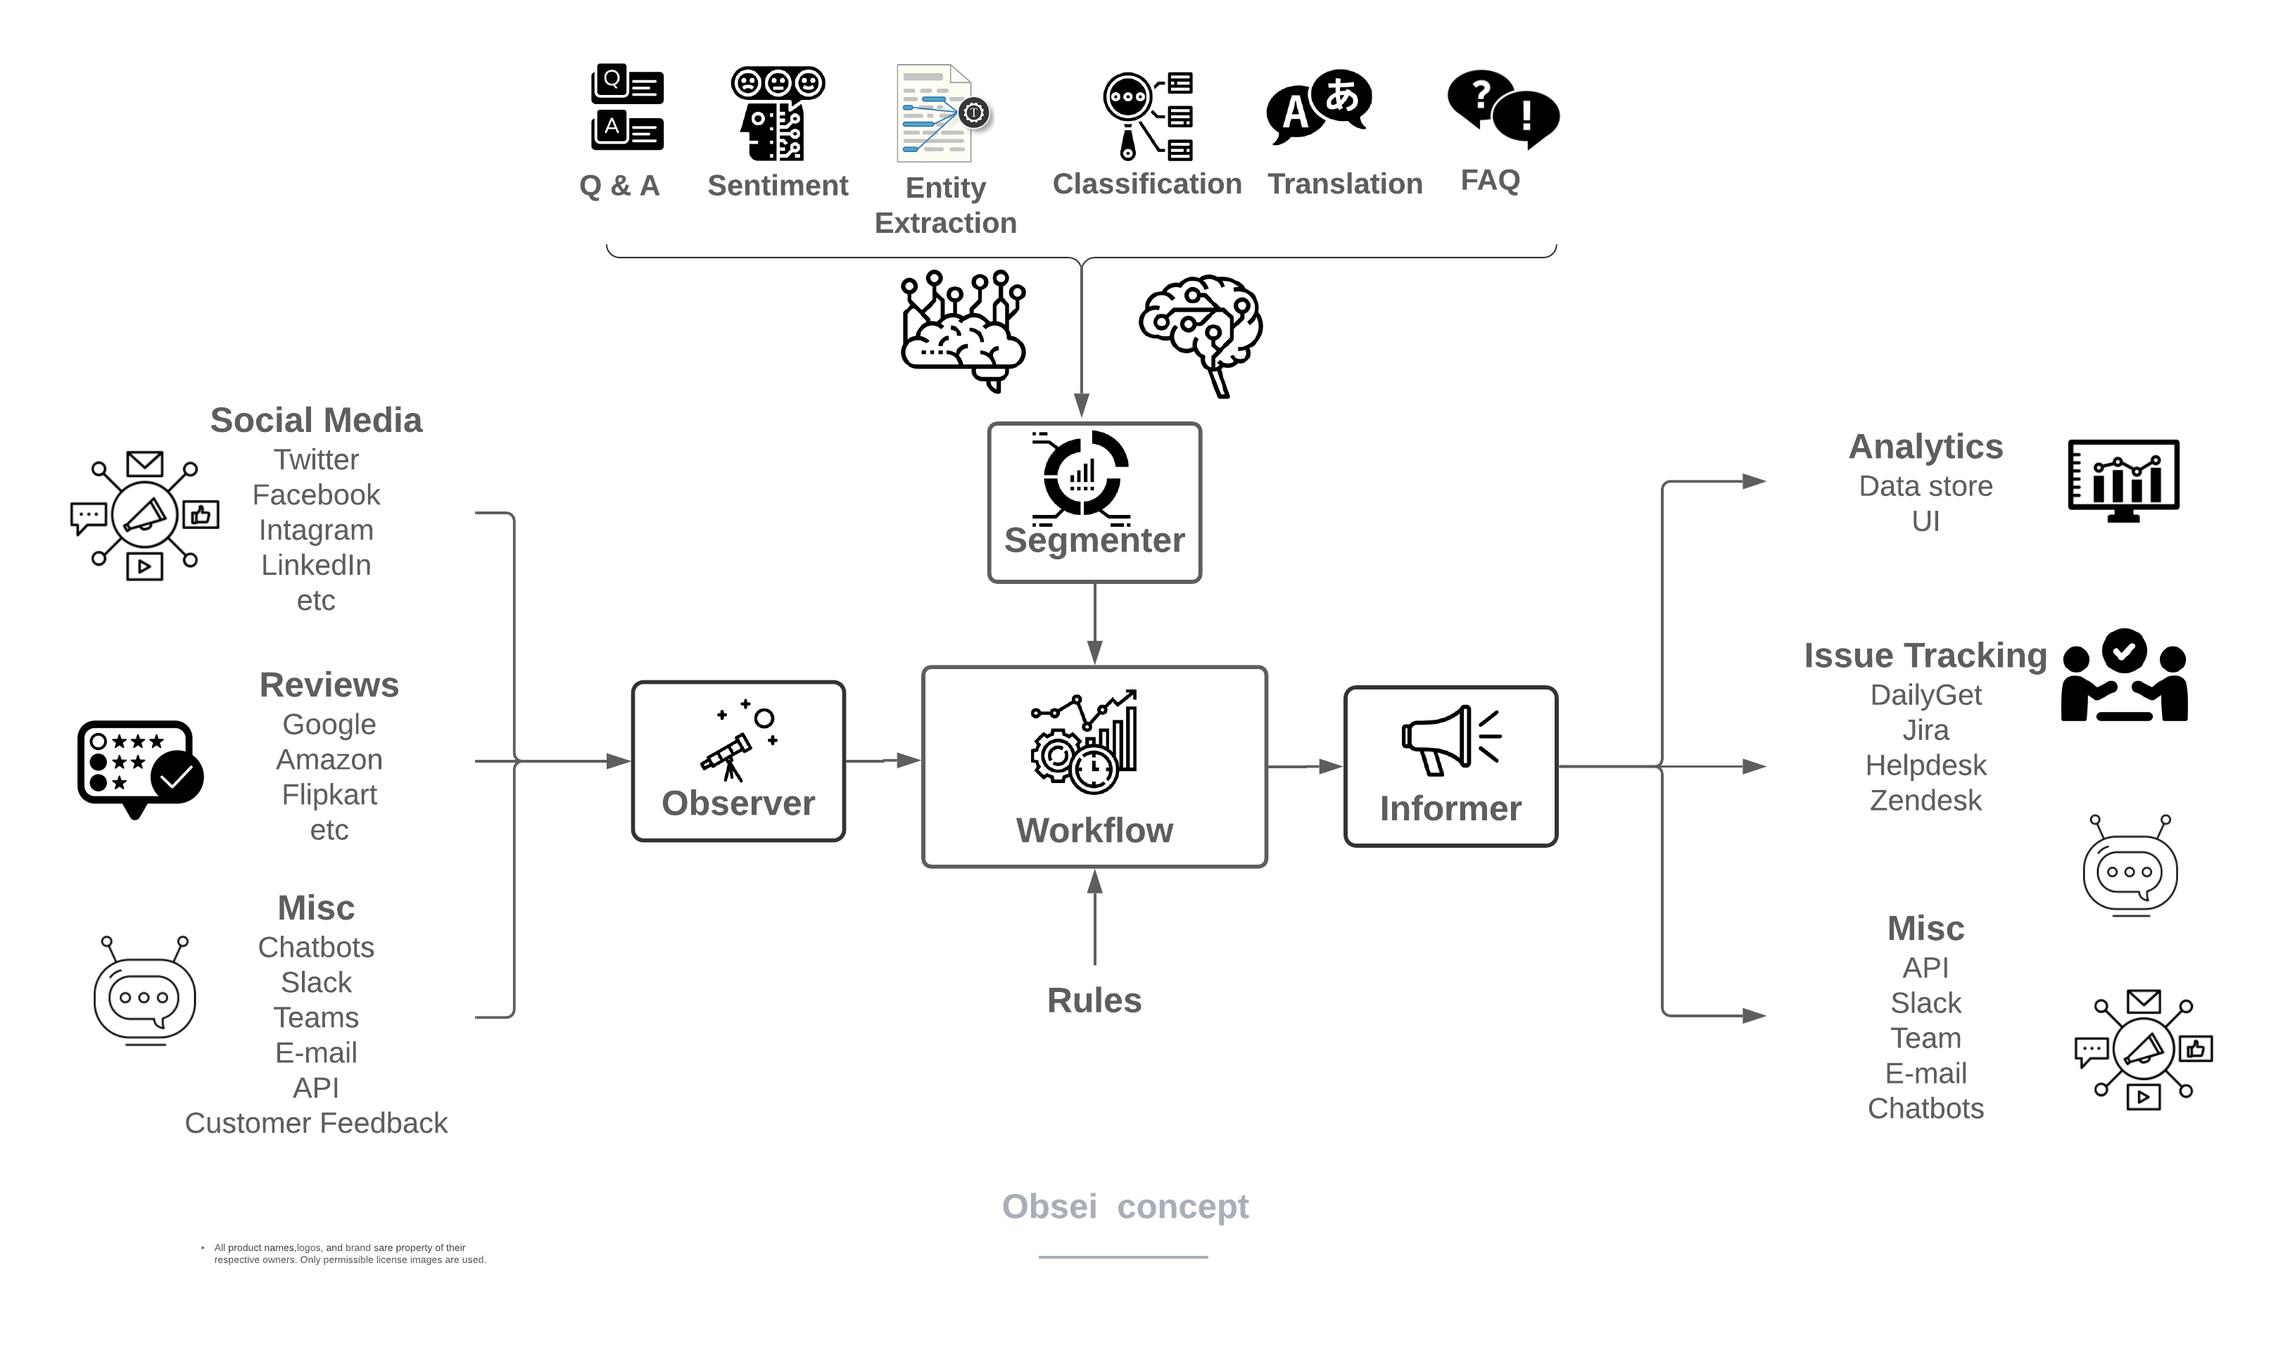
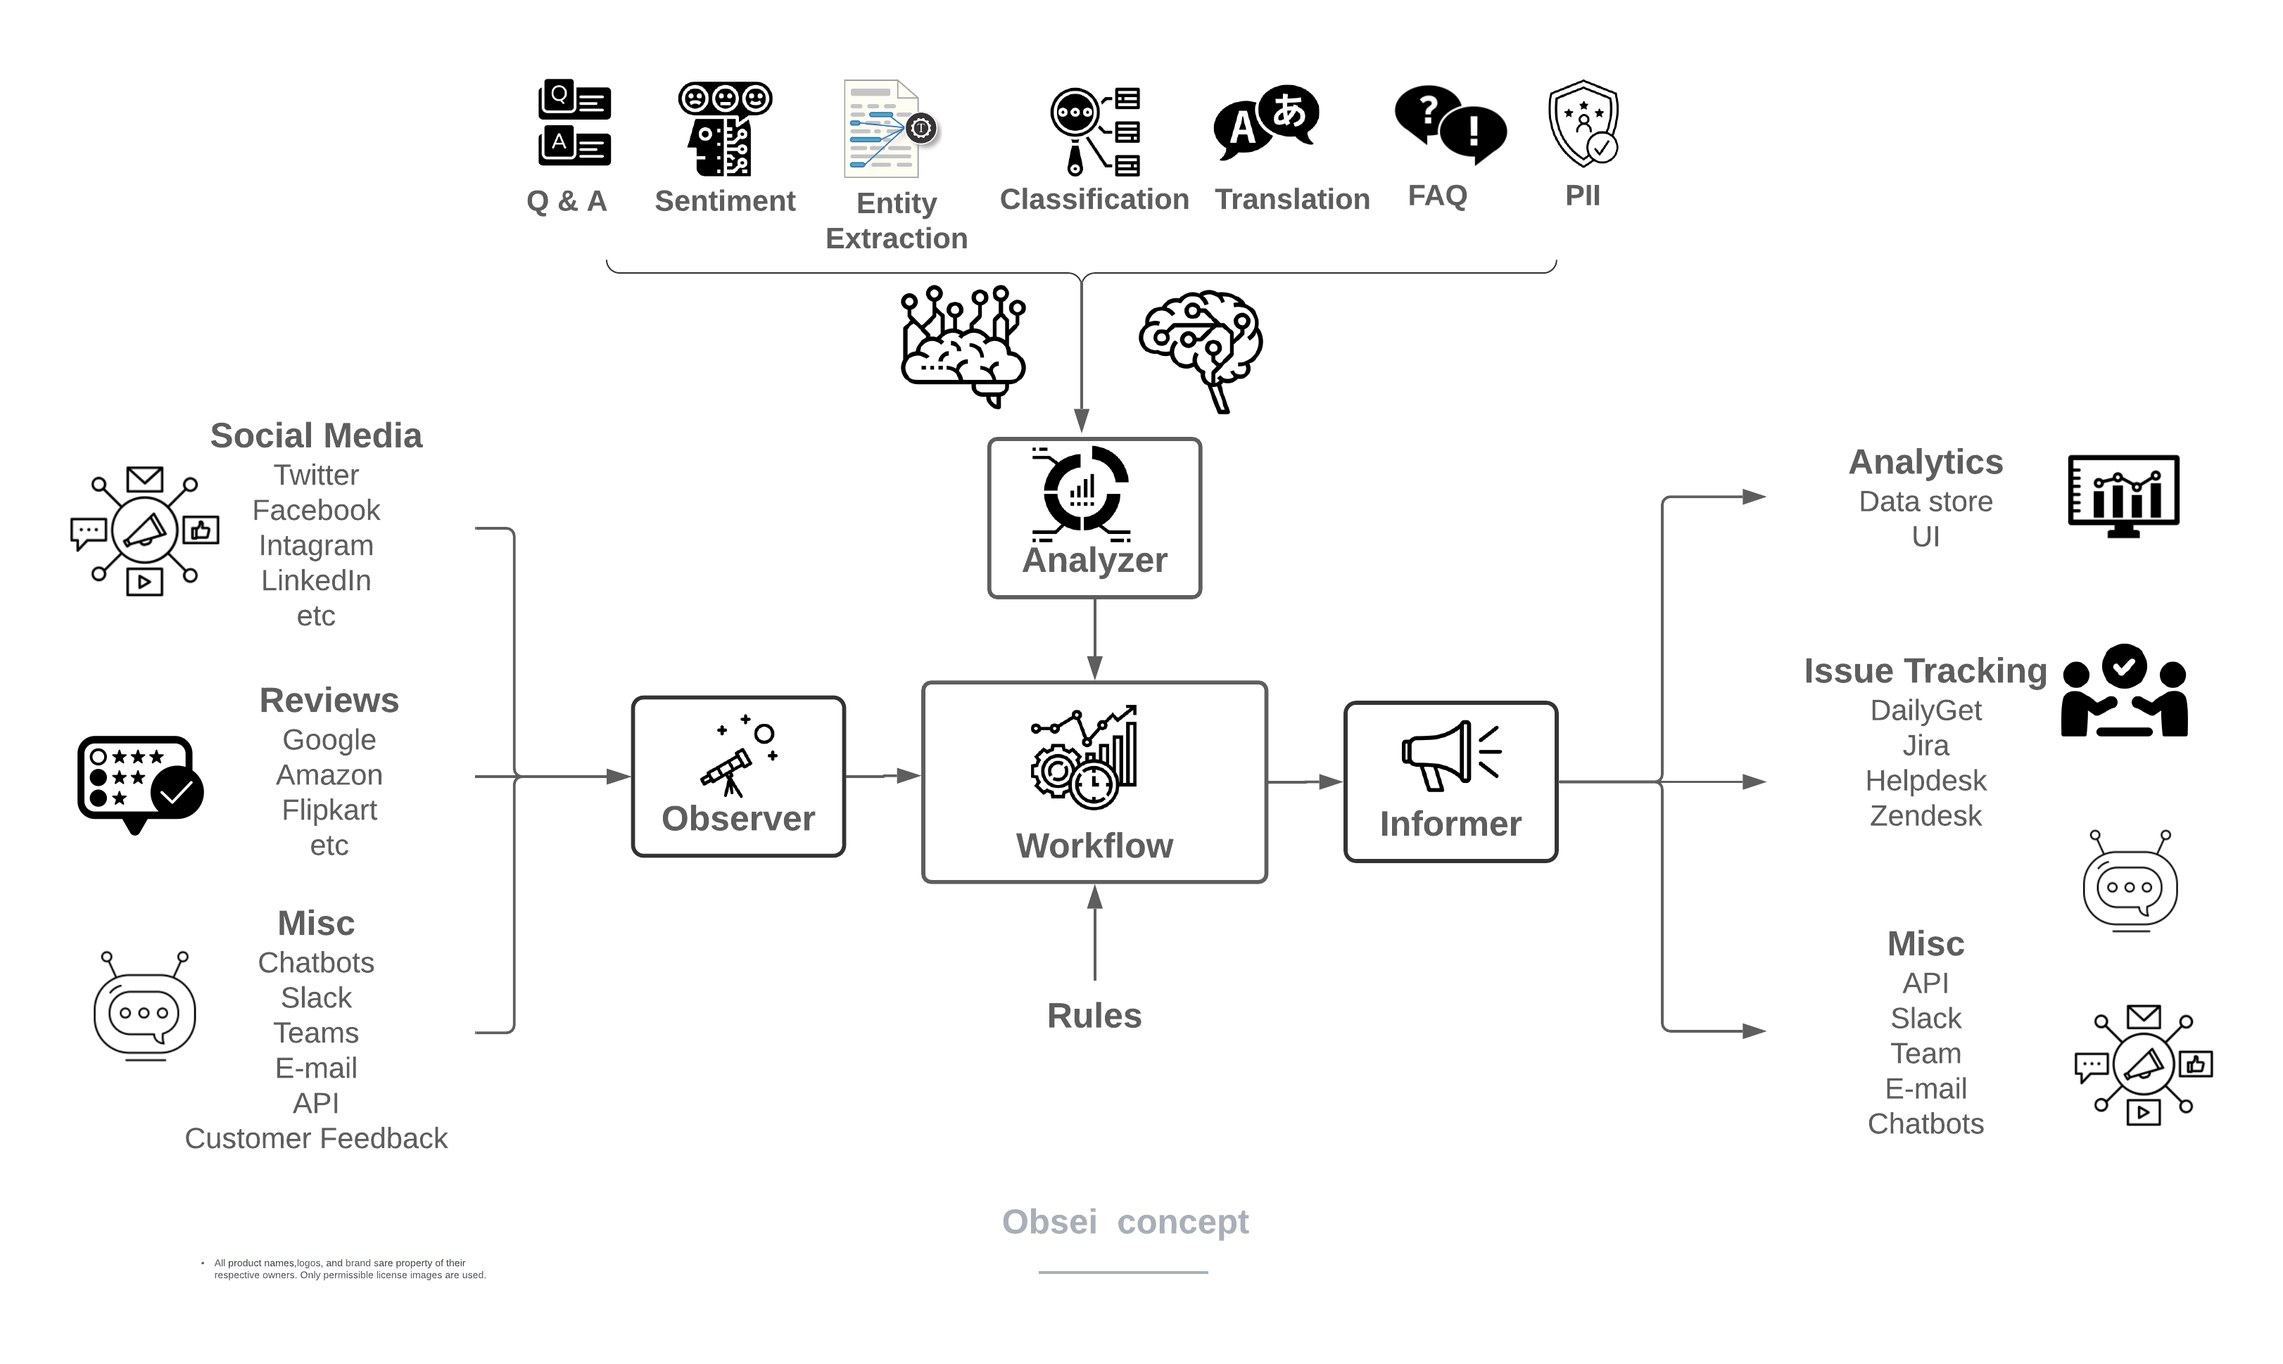
Adding PII Analyzer

diff --git a/obsei/analyzer/pii_analyzer.py b/obsei/analyzer/pii_analyzer.py
@@ -1,0 +1,136 @@
+import logging
+from typing import Any, Dict, List, Optional
+
+from presidio_analyzer import AnalyzerEngine, EntityRecognizer
+from presidio_anonymizer import AnonymizerEngine
+from presidio_analyzer.nlp_engine import NlpEngineProvider
+from presidio_anonymizer.entities import AnonymizerConfig
+from pydantic import BaseModel, Field, PrivateAttr
+
+from obsei.analyzer.base_analyzer import AnalyzerRequest, AnalyzerResponse, BaseAnalyzer, BaseAnalyzerConfig
+
+logger = logging.getLogger(__name__)
+
+
+class PresidioModelConfig(BaseModel):
+    lang_code: Optional[str] = Field("en")
+    model_name: Optional[str] = Field("en_core_web_lg")
+
+
+class PresidioEngineConfig(BaseModel):
+    nlp_engine_name: Optional[str] = Field("spacy")
+    models: Optional[List[PresidioModelConfig]] = None
+
+    def __init__(self, **data: Any):
+        super().__init__(**data)
+
+        if not self.models or len(self.models) == 0:
+            self.models = [PresidioModelConfig()]
+
+
+class PresidioPIIAnalyzerConfig(BaseAnalyzerConfig):
+    TYPE: str = "PresidioPII"
+    # To find more details refer https://microsoft.github.io/presidio/anonymizer/
+    anonymizers_config: Optional[Dict[str, AnonymizerConfig]] = None
+    # To see list of supported entities refer https://microsoft.github.io/presidio/supported_entities/
+    # By default it will search for all the supported entities
+    entities: Optional[List[str]] = None
+    analyze_only: Optional[bool] = False
+    # Whether the analysis decision process steps returned in the response
+    return_decision_process: Optional[bool] = False
+
+
+class PresidioPIIAnalyzer(BaseAnalyzer):
+    _analyzer: AnalyzerEngine = PrivateAttr()
+    _anonymizer: AnonymizerEngine = PrivateAttr()
+    TYPE: str = "PresidioPII"
+    engine_config: Optional[PresidioEngineConfig] = None
+    # To see list of supported entities refer https://microsoft.github.io/presidio/supported_entities/
+    # To add customer recognizers refer https://microsoft.github.io/presidio/analyzer/adding_recognizers/
+    entity_recognizers: Optional[List[EntityRecognizer]] = None
+    # To find more details refer https://microsoft.github.io/presidio/anonymizer/
+    anonymizers_config: Optional[Dict[str, AnonymizerConfig]] = None
+
+    def __init__(self, **data: Any):
+        super().__init__(**data)
+
+        if not self.engine_config:
+            self.engine_config = PresidioEngineConfig()
+
+        # If spacy engine then load Spacy models and select languages
+        languages = []
+        for model_config in self.engine_config.models:
+            languages.append(model_config.lang_code)
+
+            # Check SpacyNlpEngine.engine_name
+            if self.engine_config.nlp_engine_name == "spacy":
+                try:
+                    import spacy
+                    spacy.load(model_config.model_name)
+                    logger.info(f"Spacy model {model_config.model_name} is already downloaded")
+                except:
+                    logger.warning(f"Spacy model {model_config.model_name} is not downloaded")
+                    logger.warning(f"Downloading spacy model {model_config.model_name}, it might take some time")
+                    from spacy.cli import download
+                    download(model_config.model_name)
+
+        # Create NLP engine based on configuration
+        provider = NlpEngineProvider(nlp_configuration=self.engine_config.dict())
+        nlp_engine = provider.create_engine()
+
+        # Pass the created NLP engine and supported_languages to the AnalyzerEngine
+        self._analyzer = AnalyzerEngine(
+            nlp_engine=nlp_engine,
+            supported_languages=languages
+        )
+
+        # self._analyzer.registry.load_predefined_recognizers()
+        if self.entity_recognizers:
+            for entity_recognizer in self.entity_recognizers:
+                self._analyzer.registry.add_recognizer(entity_recognizer)
+
+        # Initialize the anonymizer with logger
+        self._anonymizer = AnonymizerEngine()
+
+    def analyze_input(
+        self,
+        source_response_list: List[AnalyzerRequest],
+        analyzer_config: PresidioPIIAnalyzerConfig,
+        language: Optional[str] = "en",
+        **kwargs
+    ) -> List[AnalyzerResponse]:
+        analyzer_output: List[AnalyzerResponse] = []
+
+        for source_response in source_response_list:
+            analyzer_result = self._analyzer.analyze(
+                text=source_response.processed_text,
+                entities=analyzer_config.entities,
+                return_decision_process=analyzer_config.return_decision_process,
+                language=language
+            )
+
+            anonymized_result = None
+            if not analyzer_config.analyze_only:
+                anonymizers_config = analyzer_config.anonymizers_config or self.anonymizers_config
+
+                anonymized_result = self._anonymizer.anonymize(
+                    text=source_response.processed_text,
+                    anonymizers_config=anonymizers_config,
+                    analyzer_results=analyzer_result
+                )
+
+            analyzer_output.append(
+                AnalyzerResponse(
+                    processed_text=source_response.processed_text if not anonymized_result else anonymized_result.text,
+                    meta=source_response.meta,
+                    segmented_data={
+                        "analyzer_result": [vars(result) for result in analyzer_result],
+                        "anonymized_result": None if not anonymized_result else [
+                            vars(item) for item in anonymized_result.items
+                        ]
+                    },
+                    source_name=source_response.source_name,
+                )
+            )
+
+        return analyzer_output

diff --git a/rest_api/global_utils.py b/rest_api/global_utils.py
@@ -11,8 +11,12 @@ from obsei.sink.dailyget_sink import DailyGetSink
 from obsei.sink.elasticsearch_sink import ElasticSearchSink
 from obsei.sink.http_sink import HttpSink
 from obsei.sink.jira_sink import JiraSink
+from obsei.sink.logger_sink import LoggerSink
+from obsei.sink.slack_sink import SlackSink
+from obsei.sink.zendesk_sink import ZendeskCredInfo
 from obsei.source.appstore_scrapper import AppStoreScrapperSource
 from obsei.source.base_source import BaseSource
+from obsei.source.email_source import EmailSource
 from obsei.source.playstore_reviews import PlayStoreSource
 from obsei.source.playstore_scrapper import PlayStoreScrapperSource
 from obsei.source.reddit_scrapper import RedditScrapperSource
@@ -27,7 +31,8 @@ source_map: Dict[str, BaseSource] = {
     "PlayStoreScrapper": PlayStoreScrapperSource(),
     "AppStoreScrapper": AppStoreScrapperSource(),
     "RedditScrapper": RedditScrapperSource(),
-    "Reddit": RedditSource()
+    "Reddit": RedditSource(),
+    "Email": EmailSource()
 }
 
 sink_map: Dict[str, BaseSink] = {
@@ -35,6 +40,9 @@ sink_map: Dict[str, BaseSink] = {
     "Jira": JiraSink(),
     "DailyGet": DailyGetSink(),
     "Elasticsearch": ElasticSearchSink(),
+    "Zendesk": ZendeskCredInfo(),
+    "Slack": SlackSink(),
+    "Logging": LoggerSink()
 }
 
 router = APIRouter()
@@ -48,7 +56,7 @@ def get_application() -> FastAPI:
     application = FastAPI(
         title="Obsei-APIs",
         debug=True,
-        description="Observe, Segment and Inform"
+        description="Observe, Analyze and Inform"
     )
 
     application.add_middleware(

diff --git a/test/test_translator.py b/test/test_translator.py
@@ -1,5 +1,3 @@
-import logging
-
 from obsei.analyzer.base_analyzer import AnalyzerRequest
 
 GOOD_TEXT = '''मुझे सब चीजे बहुत अच्छी लगी ।'''
@@ -14,18 +12,11 @@ TEXTS = [GOOD_TEXT, BAD_TEXT, MIXED_TEXT, EMOTICONS_TEXT, HINGLISH_TEXT]
 
 # for running in offline mode - https://huggingface.co/transformers/installation.html#offline-mode
 
-# logging.StreamHandler.terminator = ''
-# logging.basicConfig(stream=sys.stdout, level=logging.INFO)
-logger = logging.getLogger(__name__)
-logger.setLevel(logging.INFO)
-
 
 def test_translate_analyzer(translate_analyzer):
     source_responses = [AnalyzerRequest(processed_text=text, source_name="sample") for text in TEXTS]
     analyzer_responses = translate_analyzer.analyze_input(source_response_list=source_responses)
     assert len(analyzer_responses) == len(TEXTS)
 
-    logger.info("Result:")
-    for analyzer_response in analyzer_responses:
-        # print(analyzer_response)
-        logger.info(analyzer_response)
+    for text, analyzer_response in zip(TEXTS, analyzer_responses):
+        assert text != analyzer_response.processed_text

diff --git a/example/pii_analyzer_example.py b/example/pii_analyzer_example.py
@@ -1,0 +1,30 @@
+import logging
+import sys
+
+from obsei.analyzer.base_analyzer import AnalyzerRequest
+from obsei.analyzer.pii_analyzer import PresidioEngineConfig, PresidioModelConfig, PresidioPIIAnalyzer, \
+    PresidioPIIAnalyzerConfig
+
+logger = logging.getLogger(__name__)
+logging.basicConfig(stream=sys.stdout, level=logging.INFO)
+
+analyzer_config = PresidioPIIAnalyzerConfig(
+    analyze_only=False,
+    return_decision_process=True
+)
+analyzer = PresidioPIIAnalyzer(
+    engine_config=PresidioEngineConfig(
+        nlp_engine_name="spacy",
+        models=[PresidioModelConfig(model_name="en_core_web_lg", lang_code="en")]
+    )
+)
+
+text_to_anonymize = "His name is Mr. Jones and his phone number is 212-555-5555"
+
+analyzer_results = analyzer.analyze_input(
+    source_response_list=[AnalyzerRequest(processed_text=text_to_anonymize)],
+    analyzer_config=analyzer_config
+)
+
+for analyzer_result in analyzer_results:
+    logging.info(analyzer_result.to_dict())

diff --git a/test/test_pii_analyzer.py b/test/test_pii_analyzer.py
@@ -1,0 +1,25 @@
+from obsei.analyzer.base_analyzer import AnalyzerRequest
+from obsei.analyzer.pii_analyzer import PresidioPIIAnalyzerConfig
+
+text_to_anonymize = "His name is Mr. Jones and his phone number is 212-555-5555"
+PII_LIST = ["Jones", "212-555-5555"]
+TEXTS = [text_to_anonymize]
+
+analyzer_config = PresidioPIIAnalyzerConfig(
+    analyze_only=False,
+    return_decision_process=True
+)
+
+
+def test_pii_analyzer(pii_analyzer):
+    source_responses = [AnalyzerRequest(processed_text=text, source_name="sample") for text in TEXTS]
+    analyzer_responses = pii_analyzer.analyze_input(
+        source_response_list=source_responses,
+        analyzer_config=analyzer_config
+    )
+    assert len(analyzer_responses) == len(TEXTS)
+
+    for text, analyzer_response in zip(TEXTS, analyzer_responses):
+        assert text != analyzer_response.processed_text
+        for pii_info in PII_LIST:
+            assert pii_info not in text

diff --git a/test/conftest.py b/test/conftest.py
@@ -2,6 +2,7 @@ import pytest
 
 from obsei.analyzer.classification_analyzer import ZeroShotClassificationAnalyzer
 from obsei.analyzer.ner_analyzer import NERAnalyzer
+from obsei.analyzer.pii_analyzer import PresidioEngineConfig, PresidioModelConfig, PresidioPIIAnalyzer
 from obsei.analyzer.sentiment_analyzer import VaderSentimentAnalyzer
 from obsei.analyzer.translation_analyzer import TranslationAnalyzer
 
@@ -29,3 +30,13 @@ def ner_analyzer():
 @pytest.fixture(scope="session")
 def translate_analyzer():
     return TranslationAnalyzer(model_name_or_path = "Helsinki-NLP/opus-mt-hi-en")
+
+
+@pytest.fixture(scope="session")
+def pii_analyzer():
+    return PresidioPIIAnalyzer(
+        engine_config=PresidioEngineConfig(
+            nlp_engine_name="spacy",
+            models=[PresidioModelConfig(model_name="en_core_web_lg", lang_code="en")]
+        )
+    )

diff --git a/obsei/analyzer/classification_analyzer.py b/obsei/analyzer/classification_analyzer.py
@@ -41,7 +41,6 @@ class ZeroShotClassificationAnalyzer(BaseAnalyzer):
         add_positive_negative_labels: Optional[bool] = True,
         **kwargs
     ) -> List[AnalyzerResponse]:
-        analyzer_config = analyzer_config
         analyzer_output: List[AnalyzerResponse] = []
 
         labels = analyzer_config.labels or []

diff --git a/README.md b/README.md
@@ -6,7 +6,7 @@
                 <img src="https://raw.githubusercontent.com/lalitpagaria/obsei/master/images/logos/obsei_200x200.png" width="100" height="100" />
             </th>
             <th style="border-collapse: collapse; border: none;">
-                <h1>Obsei: OBserve, SEgment and Inform</h1>
+                <h1>Obsei: Observe, Analyze and Inform</h1>
             </th>
         </tr>
     </table>
@@ -34,10 +34,10 @@
 </p>
 
 
-**Obsei** is intended to be a workflow automation tool for text segmentation need. *Obsei* consist of -
- - **Observer**, observes platform like Twitter, Facebook, App Stores, Google reviews, Amazon reviews and feed that information to,
- - **Segmenter**, which perform text classification and sentiment analysis and feed that information to,
- - **Informer**, which send it to ticketing system, data store or other places for further action and analysis.
+**Obsei** is intended to be a workflow automation tool for text analysis need. *Obsei* consist of -
+ - **Observer**, observes platform like Twitter, Facebook, App Stores, Google reviews, Amazon reviews etc and feed that information to,
+ - **Analyzer**, which perform text analysis like classification, sentiment, translation, PII etc and feed that information to,
+ - **Informer**, which send it to ticketing system, data store etc for further action and analysis.
 
 Current flow -
 
@@ -236,7 +236,7 @@ source = RedditScrapperSource()
 
 </details>
 
-<details><summary><b>Step 4: Configure Analyzer/Segmenter</b></summary>
+<details><summary><b>Step 4: Configure Analyzer</b></summary>
 
 <i>Note: To run transformers in an offline mode, check [transformers offline mode](https://huggingface.co/transformers/installation.html#offline-mode).</i>
 
@@ -309,6 +309,36 @@ analyzer_config = None
 # initialize translator
 analyzer = TranslationAnalyzer(
     model_name_or_path="Helsinki-NLP/opus-mt-hi-en"
+)
+```
+</details>
+</td>
+</tr>
+<tr>
+<td><details ><summary><img style="vertical-align:middle;margin:2px 10px" src="https://raw.githubusercontent.com/lalitpagaria/obsei/master/images/logos/pii.png" width="20" height="20"><b>PII Anonymizer</b></summary><hr>
+
+ ```python
+from obsei.analyzer.pii_analyzer import PresidioEngineConfig, PresidioModelConfig, \ 
+    PresidioPIIAnalyzer, PresidioPIIAnalyzerConfig
+
+# initialize pii analyzer's config
+analyzer_config = PresidioPIIAnalyzerConfig(
+    # Whether to return only pii analysis or anonymize text
+    analyze_only=False,
+    # Whether to return detail information about anonymization decision
+    return_decision_process=True
+)
+
+# initialize pii analyzer
+analyzer = PresidioPIIAnalyzer(
+    engine_config=PresidioEngineConfig(
+        # spacy and stanza nlp engines are supported
+        # For more info refer 
+        # https://microsoft.github.io/presidio/analyzer/developing_recognizers/#utilize-spacy-or-stanza
+        nlp_engine_name="spacy",
+        # Update desired spacy model and language
+        models=[PresidioModelConfig(model_name="en_core_web_lg", lang_code="en")]
+    )
 )
 ```
 </details>
@@ -578,7 +608,7 @@ If you use `obsei` in your research please use the following BibTeX entry:
 ```text
 @Misc{Pagaria2020Obsei,
   author =       {Lalit Pagaria},
-  title =        {Obsei - A workflow automation tool for text segmentation need},
+  title =        {Obsei - A workflow automation tool for text analysis need},
   howpublished = {Github},
   year =         {2020},
   url =          {https://github.com/lalitpagaria/obsei}
